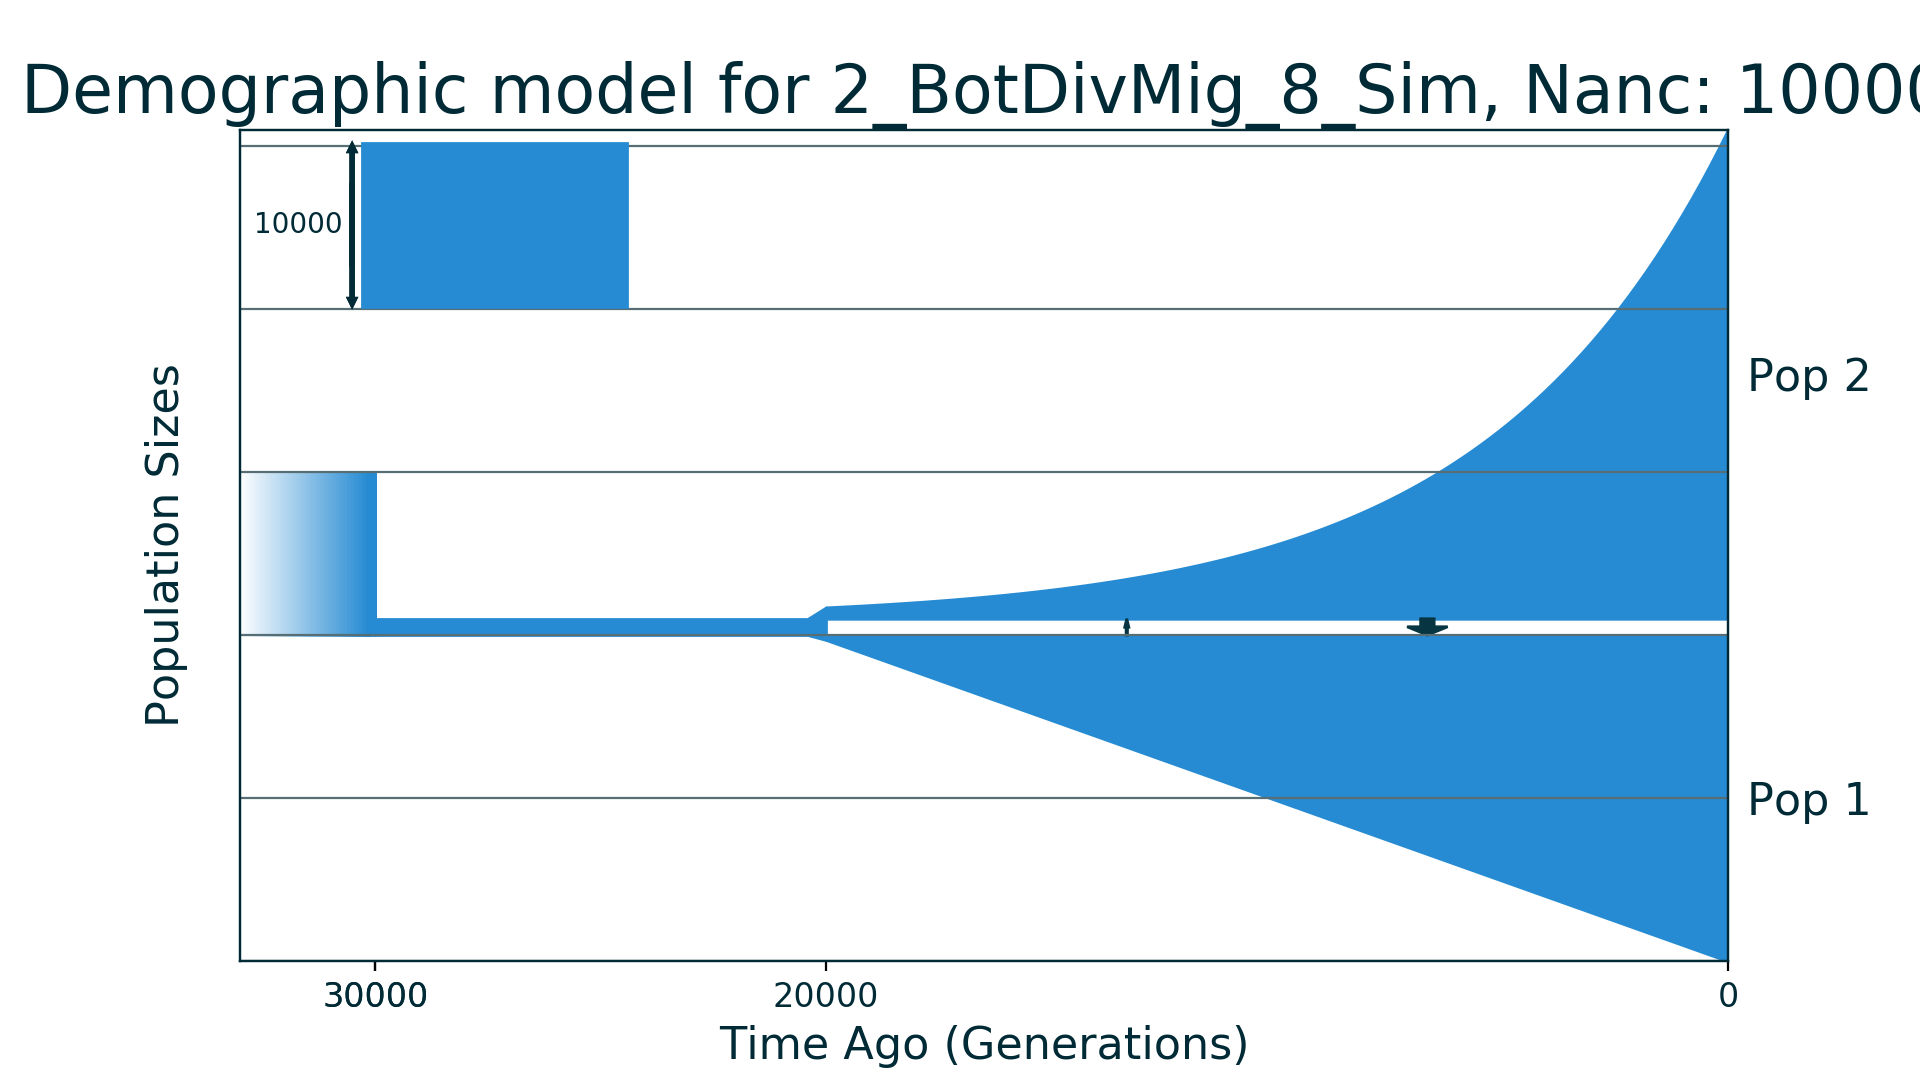
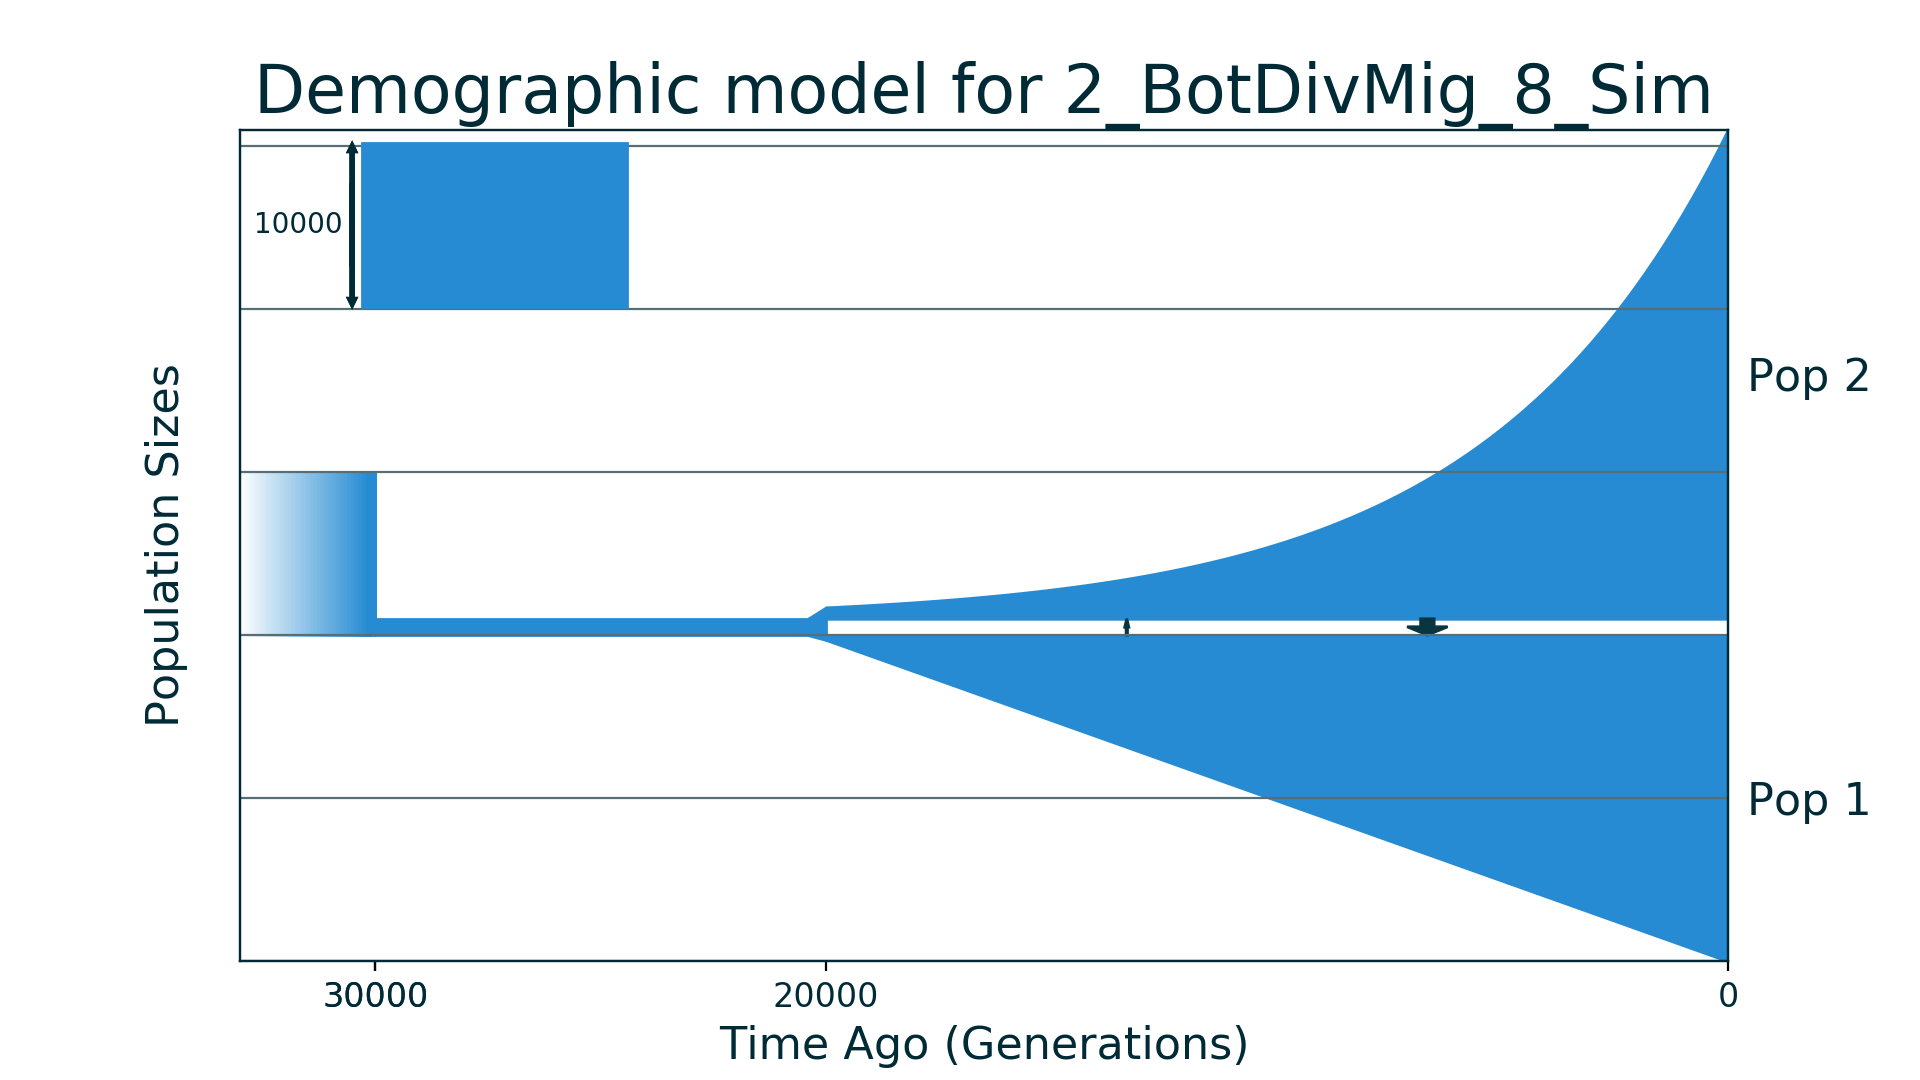
fix model plots titles

Changed region(s): [[0.0, 0.0611, 1.0, 0.1222]]

diff --git a/2_ExpDivNoMig_5_Sim/main_script.py b/2_ExpDivNoMig_5_Sim/main_script.py
@@ -41,7 +41,7 @@ if __name__ == "__main__":
                                              [4 for _ in range(n_pop)])
     moments.ModelPlot.plot_model(model,
         save_file='model_plot.png',
-        fig_title=f'Demographic model for 2_ExpDivNoMig_5_Sim, Nanc: {Nanc}',
+        fig_title=f'Demographic model for 2_ExpDivNoMig_5_Sim',
         pop_labels=pop_labels,
         nref=Nanc,
         draw_scale=True,

diff --git a/2_BotDivMig_8_Sim/main_script.py b/2_BotDivMig_8_Sim/main_script.py
@@ -41,7 +41,7 @@ if __name__ == "__main__":
                                              [4 for _ in range(n_pop)])
     moments.ModelPlot.plot_model(model,
         save_file='model_plot.png',
-        fig_title=f'Demographic model for 2_BotDivMig_8_Sim, Nanc: {Nanc}',
+        fig_title=f'Demographic model for 2_BotDivMig_8_Sim',
         pop_labels=pop_labels,
         nref=Nanc,
         draw_scale=True,
